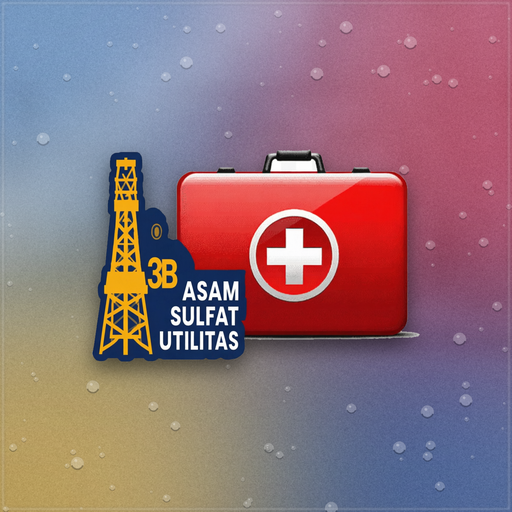
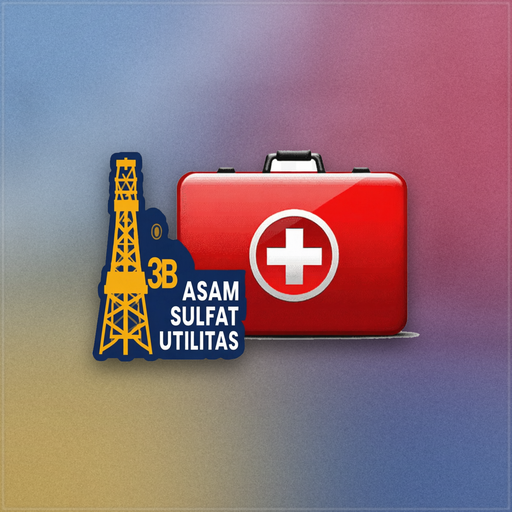
Ikon kaca berembun tanpa efek gelembung/titik embun
- Titik-titik embun dihapus; latar kaca buram, pendaran warna, kabut tipis, butiran halus
  dan kilau kaca tetap
- Nama cache service worker dinaikkan agar ikon baru terambil (isi sw.js lain tidak berubah)

Claude-Session: https://claude.ai/code/session_01JMjrSkCQgrKCpvZ28iQx8s

diff --git a/sw.js b/sw.js
@@ -1,7 +1,7 @@
 /* FirstAid SASU3B — service worker
    App shell cache-first, data Google Sheets network-first dengan fallback cache
    supaya aplikasi tetap terbaca di area plant tanpa sinyal. */
-const SHELL = 'fa-sasu3b-shell-v26';
+const SHELL = 'fa-sasu3b-shell-v27';
 const DATA = 'fa-sasu3b-data-v6';
 try { importScripts('./notif.js'); } catch (e) {}
 const META = 'fa-sasu3b-meta';   // catatan notifikasi (dipakai notif.js) — jangan dihapus saat activate
